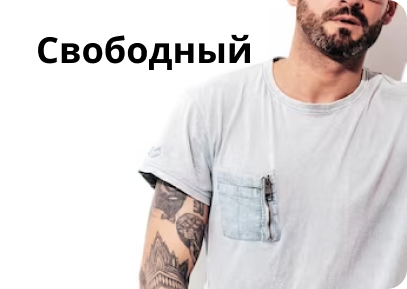
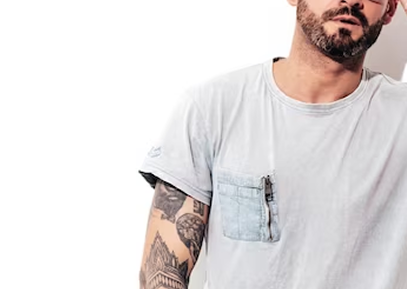
fixed burger menu

diff --git a/index.html b/index.html
@@ -58,6 +58,22 @@
         </a>
 
         <nav class="header__nav" id="headerNav">
+          <button class="header__nav-close" id="closeNavBtn" aria-label="Закрыть меню">
+            <svg
+              width="24"
+              height="24"
+              viewBox="0 0 24 24"
+              fill="none"
+              xmlns="http://www.w3.org/2000/svg"
+            >
+              <path
+                d="M6 6L18 18M18 6L6 18"
+                stroke="#000"
+                stroke-width="2"
+                stroke-linecap="round"
+              />
+            </svg>
+          </button>
           <ul class="header__nav-list">
             <li class="header__nav-item header__nav-item--dropdown">
               <a href="#" class="header__nav-link">
@@ -801,46 +817,37 @@
     </section>
 
     <section class="categories">
-      <div class="container">
-        <div class="categories__wrapper">
-          <h2 class="categories__title">ВЫБЕРИ СВОЙ СТИЛЬ</h2>
+  <div class="container">
+    <div class="categories__wrapper">
+      <h2 class="categories__title">ВЫБЕРИ СВОЙ СТИЛЬ</h2>
 
-          <div class="categories__grid">
-            <a href="#" class="category-card category-card--small">
-              <img
-                src="./images/categories/casual.png"
-                alt="Свободный стиль"
-                class="category-card__image"
-              />
-            </a>
+      <div class="categories__grid">
+  <!-- Карточка 1 -->
+        <a href="#" class="category-card category-card--small">
+          <img src="./images/categories/casual.png" alt="Свободный стиль" class="category-card__image" />
+          <span class="category-card__text">Свободный</span>
+        </a>
 
-            <a href="#" class="category-card category-card--large">
-              <img
-                src="./images/categories/formal.png"
-                alt="Формальный стиль"
-                class="category-card__image"
-              />
-            </a>
+        <!-- Карточка 2 -->
+        <a href="#" class="category-card category-card--large">
+          <img src="./images/categories/formal.png" alt="Формальный стиль" class="category-card__image" />
+          <span class="category-card__text">Формальный</span>
+        </a>
 
-            <a href="#" class="category-card category-card--large">
-              <img
-                src="./images/categories/evening.png"
-                alt="Вечерний стиль"
-                class="category-card__image"
-              />
-            </a>
+        <!-- Карточка 3 -->
+        <a href="#" class="category-card category-card--large">
+          <img src="./images/categories/evening.png" alt="Вечерний стиль" class="category-card__image" />
+          <span class="category-card__text">Вечерний</span>
+        </a>
 
-            <a href="#" class="category-card category-card--small">
-              <img
-                src="./images/categories/sport.png"
-                alt="Спортивный стиль"
-                class="category-card__image"
-              />
-            </a>
-          </div>
-        </div>
+        <!-- Карточка 4 -->
+        <a href="#" class="category-card category-card--small">
+          <img src="./images/categories/sport.png" alt="Спортивный стиль" class="category-card__image" />
+          <span class="category-card__text">Спорт</span>
+        </a>
       </div>
-    </section>
+    </div>
+</section>
 
     <section class="reviews">
       <div class="container">

diff --git a/css/block/header.css b/css/block/header.css
@@ -254,7 +254,6 @@
     margin-right: auto;
   }
 
-  
   .header__nav {
     position: fixed;
     top: 0;
@@ -266,12 +265,23 @@
     display: flex;
     flex-direction: column;
     padding: 80px 20px 20px;
+
     transform: translateX(-100%);
+    visibility: hidden;                    /* закрыто — не ловит клики */
+
+    /* 👇 transition на базовый класс — работает в обе стороны */
+    transition:
+      transform 0.35s ease,
+      visibility 0s linear 0.35s;         /* visibility прячется ПОСЛЕ анимации */
   }
 
   .header__nav--open {
     transform: translateX(0);
-    transition: transform var(--time) ease;
+    visibility: visible;                   /* открыто — ловит клики */
+
+    transition:
+      transform 0.35s ease,
+      visibility 0s linear 0s;             /* при открытии видно сразу */
   }
 
   .header__nav-list {
@@ -299,12 +309,44 @@
   .header__action-icon {
     width: 22px;
     height: 22px;
-    
   }
-
-  
 
   .header__actions {
     gap: 12px;
+  }
+
+  /* Крестик закрытия — только на мобилке */
+  .header__nav-close {
+    display: flex;
+    align-items: center;
+    justify-content: center;
+    position: absolute;
+    top: 16px;
+    right: 16px;
+    background: none;
+    border: none;
+    padding: 8px;
+    cursor: pointer;
+    z-index: 1;
+  }
+}
+
+.header__nav-close {
+  display: none;              /* на десктопе не показываем */
+  background: none;
+  border: none;
+  padding: 4px;
+  cursor: pointer;
+}
+
+@media (max-width: 768px) {   /* твой брейкпоинт мобильной версии */
+  .header__nav-close {
+    display: flex;
+    align-items: center;
+    justify-content: center;
+    position: absolute;       /* позиционируется внутри открытого меню */
+    top: 16px;
+    right: 16px;
+    z-index: 1;
   }
 }

diff --git a/js/burger.js b/js/burger.js
@@ -1,20 +1,32 @@
-export function initBurger() { 
+export function initBurger() {
+  const burgerBtn = document.getElementById('burgerBtn');
+  const headerNav = document.getElementById('headerNav');
+  const closeBtn = document.getElementById('closeNavBtn');
 
-    const burgerBtn = document.getElementById('burgerBtn');
-    const headerNav = document.getElementById('headerNav');
+  if (burgerBtn && headerNav) {
+    const closeMenu = () => {
+      headerNav.classList.remove('header__nav--open');
+      document.body.style.overflow = '';
+    };
 
-    if (burgerBtn && headerNav) {
+    const openMenu = () => {
+      headerNav.classList.add('header__nav--open');
+      document.body.style.overflow = 'hidden';
+    };
+
+    // бургер открывает/закрывает
     burgerBtn.addEventListener('click', () => {
-        headerNav.classList.toggle('header__nav--open');
-        document.body.style.overflow = headerNav.classList.contains('header__nav--open') ? 'hidden' : '';
+      headerNav.classList.contains('header__nav--open') ? closeMenu() : openMenu();
     });
 
-    headerNav.querySelectorAll('.header__nav-link').forEach(link => {
-        link.addEventListener('click', () => {
-        headerNav.classList.remove('header__nav--open');
-        document.body.style.overflow = '';
-        });
-    });
+    // крестик закрывает
+    if (closeBtn) {
+      closeBtn.addEventListener('click', closeMenu);
     }
 
+    // ссылки меню тоже закрывают его при клике
+    headerNav.querySelectorAll('.header__nav-link').forEach(link => {
+      link.addEventListener('click', closeMenu);
+    });
+  }
 }

diff --git a/css/block/categories.css b/css/block/categories.css
@@ -1,4 +1,3 @@
-
 .categories {
   padding: 60px 0;
   background-color: var(--white);
@@ -55,10 +54,24 @@
 .category-card__image {
   width: 100%;
   height: 100%;
-  object-fit: contain; 
+  object-fit: cover; 
   object-position: right center;
   display: block;
 }
+
+.category-card__text {
+  position: absolute;
+  top: 30px;       
+  left: 40px;      
+  z-index: 2;     
+  
+  font-family: var(--font-family);
+  font-size: 36px; 
+  font-weight: 700;
+  color: #000;     
+  line-height: 1.2;
+}
+/* ------------------------------------------------ */
 
 @media (max-width: 1024px) {
   .categories__wrapper {
@@ -74,6 +87,13 @@
   .categories__grid {
     grid-auto-rows: 240px;
     gap: 16px;
+  }
+  
+  /* Немного уменьшаем текст на планшетах */
+  .category-card__text {
+    font-size: 28px;
+    top: 20px;
+    left: 20px;
   }
 }
 
@@ -111,5 +131,12 @@
   .category-card__image {
     object-fit: cover; 
     object-position: right center; 
+  }
+  
+  /* Уменьшаем текст и отступы для мобильных */
+  .category-card__text {
+    font-size: 30px;
+    top: 16px;
+    left: 16px;
   }
 }
